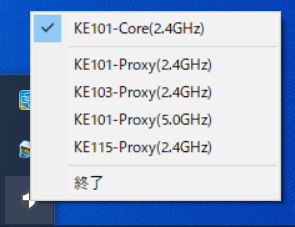
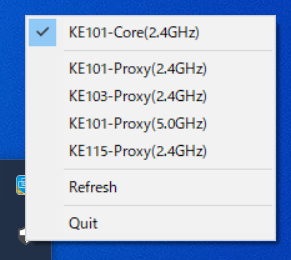
fixed to get correct wlan networks

Changed region(s): [[0.0, 0.0308, 1.0, 1.0]]

diff --git a/netsh.go b/netsh.go
@@ -64,13 +64,14 @@ func GetWlanNetworks() []string {
 		fmt.Printf("Error: falied to execute 'cmd /C netsh wlan show networks'\n\t%s\n", err)
 		return tmp
 	}
-	tmp = strings.Split(string(out), " : ")
-	tmp = tmp[2:]
+	tmp = strings.Split(string(out), "\n")
 	net := []string{}
-	for i := 0; i < len(tmp); i+=4 {
-		splts := strings.Split(tmp[i], "\n")
-		trimed := strings.Trim(splts[0], " ")
-		net = append(net, trimed[:len(trimed)-1])
+	for _, l := range tmp {
+		if strings.Index(l, "SSID") == 0 {
+			ssid_line := strings.Split(l, ":")
+			trimed_ssid := strings.Trim(ssid_line[1], " ")
+			net = append(net, trimed_ssid[:len(trimed_ssid)-1])
+		}
 	}
 
 	return net

diff --git a/netsh_test.go b/netsh_test.go
@@ -7,7 +7,7 @@ import (
 func TestGetWlanNetworks(t *testing.T){
 	net := GetWlanNetworks()
 	for i, ssid := range net {
-		t.Logf("SSID %d : '%s'", i, ssid)
+		t.Logf("net[%d]= '%s'", i, ssid)
 	}
 
 }
